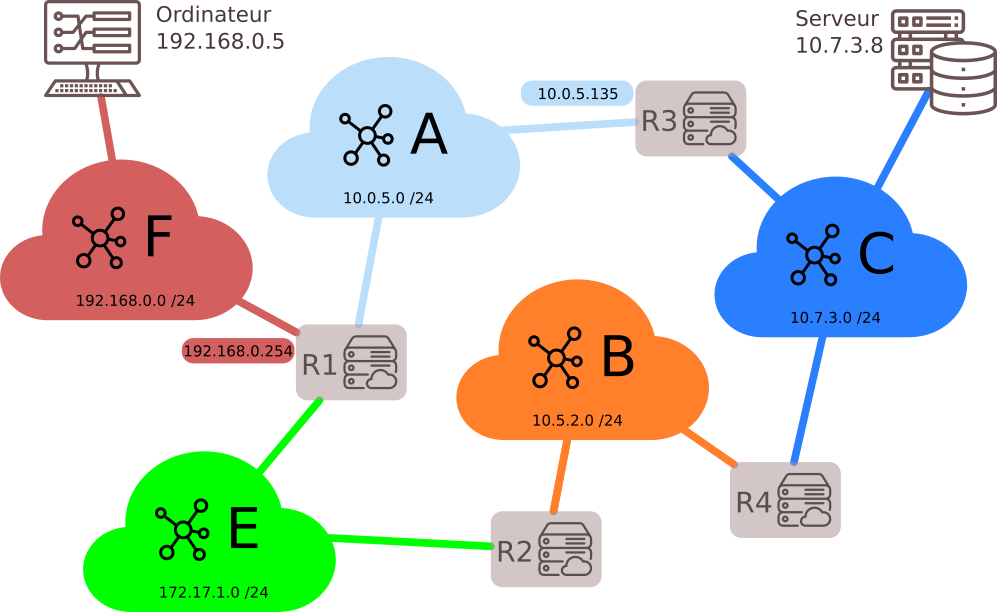
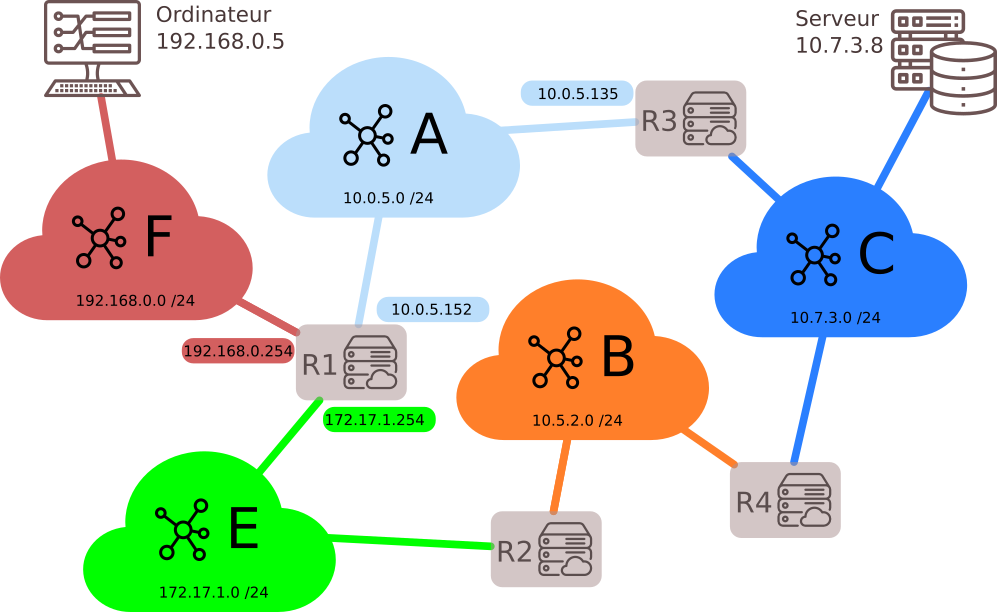
maj

Changed region(s): [[0.3731, 0.4657, 0.4975, 0.5278], [0.3109, 0.652, 0.4353, 0.7141]]

diff --git a/Terminale/Theme_5_Architecture_materielle/5.3_Protocoles_de_routage/01_Protocoles_de_routage.md b/Terminale/Theme_5_Architecture_materielle/5.3_Protocoles_de_routage/01_Protocoles_de_routage.md
@@ -26,3 +26,26 @@ Ces questions trouveront des réponses grâce à **table de routage** du routeur
 ![](data/tables.png)
 
 
+Les tables de routage sont des informations stockées dans le routeur permettant d'aiguiller intelligemment les données qui lui sont transmises.
+
+Dans le réseau ci-dessus, si l'ordinateur d'adresse ```192.168.0.5``` veut interroger le serveur ```10.7.3.8``` :
+- l'adresse ```10.7.3.8``` n'étant pas dans le sous-réseau F (d'adresse ```192.168.0.0 / 24```), la requête est confiée au routeur via son adresse passerelle dans le réseau F (ici ```192.168.0.254```).
+- le routeur observe si l'IP recherchée appartient à un autre des sous-réseaux auquel il est connecté. Ici, l'IP recherchée ```10.7.3.8``` n'appartient ni au sous-réseau A ou E. 
+- le routeur va donc regarder dans sa table de routage l'adresse passerelle d'un autre routeur vers qui elle doit rediriger les données. Si le sous-réseau C fait partie de sa table de routage, le routeur R1 saura alors que le meilleur chemin est (par exemple) de confier les données au routeur R3.
+- si le sous-réseau C ne fait pas partie de la table de routage, le routeur R1 va alors le rediriger vers une route «par défaut» (que l'on peut assimiler au panneau «toutes directions» sur les panneaux de signalisation).
+
+Par exemple, la table de routage du routeur R1 pourrait être :
+
+| Destination | Passerelle |
+|-|-|
+| 192.168.0.0 /24 | 192.168.0.254 |
+| 172.17.1.0 /24 | 172.17.1.254 |
+| 10.0.5.0 /24 | 10.0.5.152 |
+| 10.5.2.0 /24 | 172.17.1.254 |
+| 10.7.3.0 /24 | 10.0.5.152 |
+
+
+
+#### Comment sont construites les tables de routage ?
+- Soit à la main par l'administrateur réseau, quand le réseau est petit : on parle alors de table **statique**.
+- Soit de manière **dynamique** : les réseaux s'envoient eux-mêmes des informations permettant de mettre à jour leurs tables de routages respectives. Des algorithmes de détermination de meilleur chemin sont alors utilisés : nous allons en découvrir deux, le protocole RIP et le protocole OSPF.
